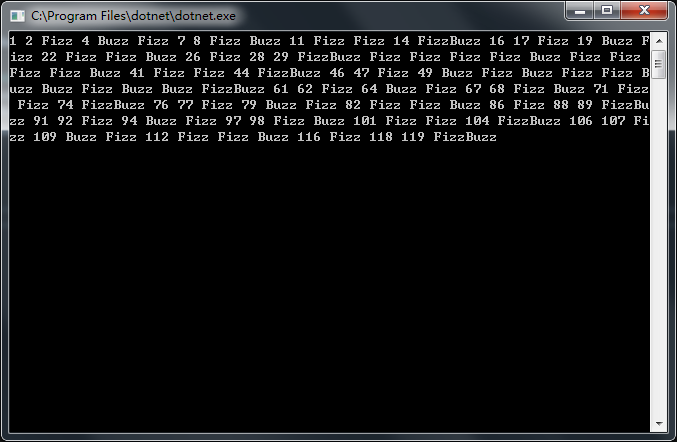
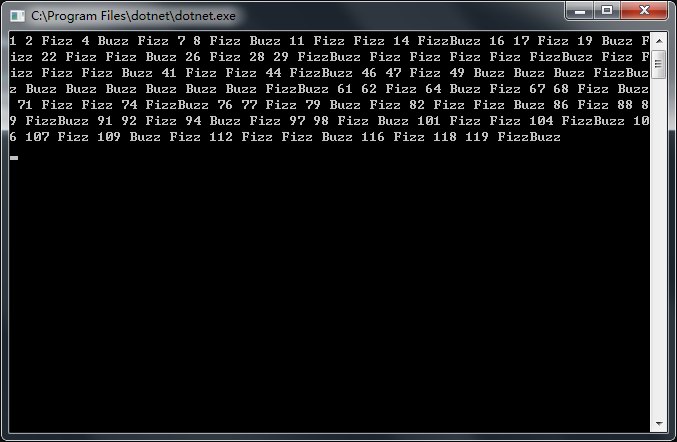
fix bug

Changed region(s): [[0.0, 0.1176, 0.9616, 0.3235], [0.0, 0.3529, 0.031, 0.3824]]

diff --git a/FizzAndBuzz/NumberProcess.cs b/FizzAndBuzz/NumberProcess.cs
@@ -17,15 +17,15 @@ namespace FizzAndBuzz
             {
                 string numStr = i.ToString();
 
-                if (i % 3 == 0 || numStr.Contains("3"))
+                if (i % 3 == 0 || i.ToString().Contains("3"))
                 {
                     numStr = "Fizz";
                 }
-                if (i % 5 == 0 || numStr.Contains("5"))
+                if (i % 5 == 0 || i.ToString().Contains("5"))
                 {
                     numStr = "Buzz";
                 }
-                if ((i % 3 == 0 && i % 5 == 0) || (numStr.Contains("3") && numStr.Contains("5")))
+                if ((i % 3 == 0 && i % 5 == 0) || (i.ToString().Contains("3") && i.ToString().Contains("5")))
                 {
                     numStr = "FizzBuzz";
                 }
